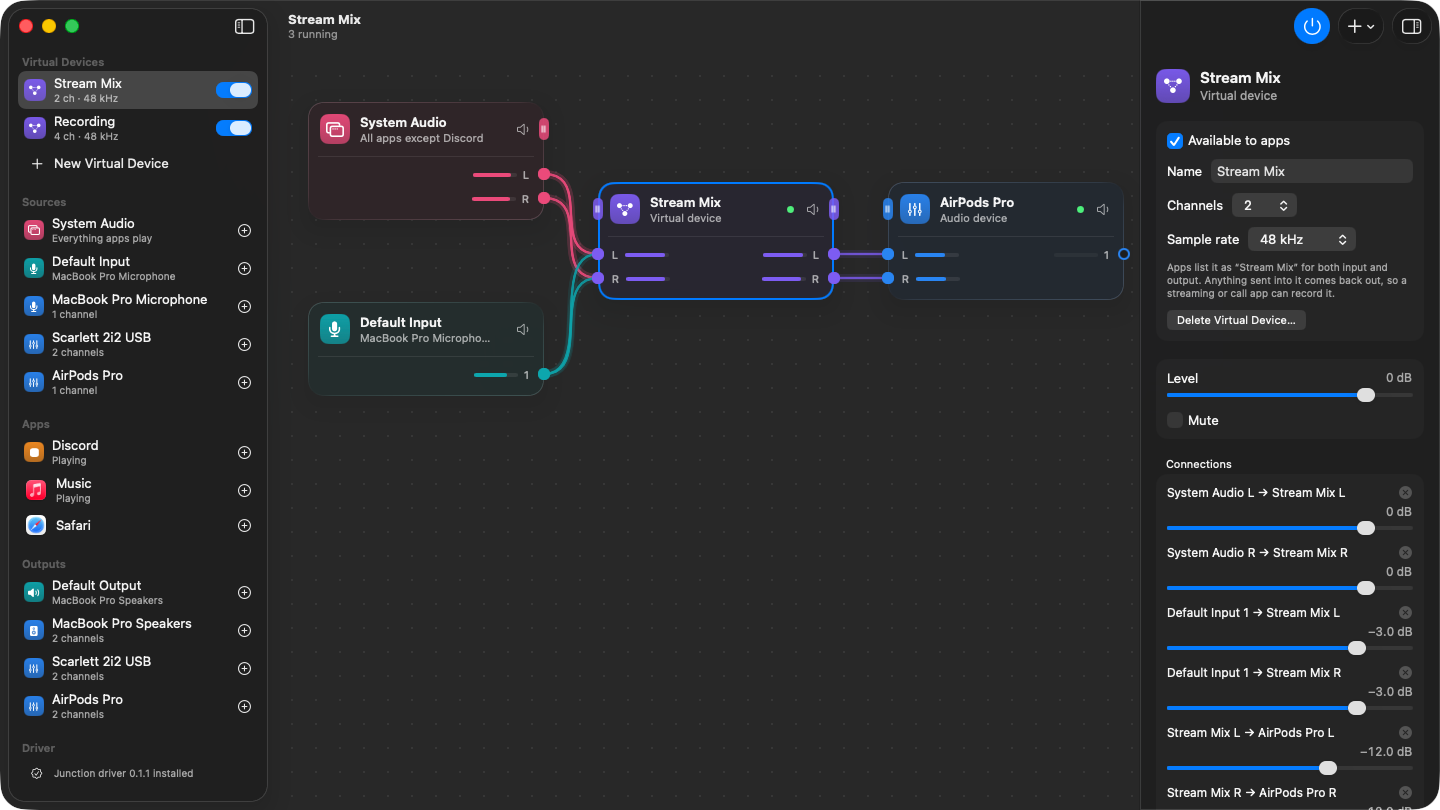
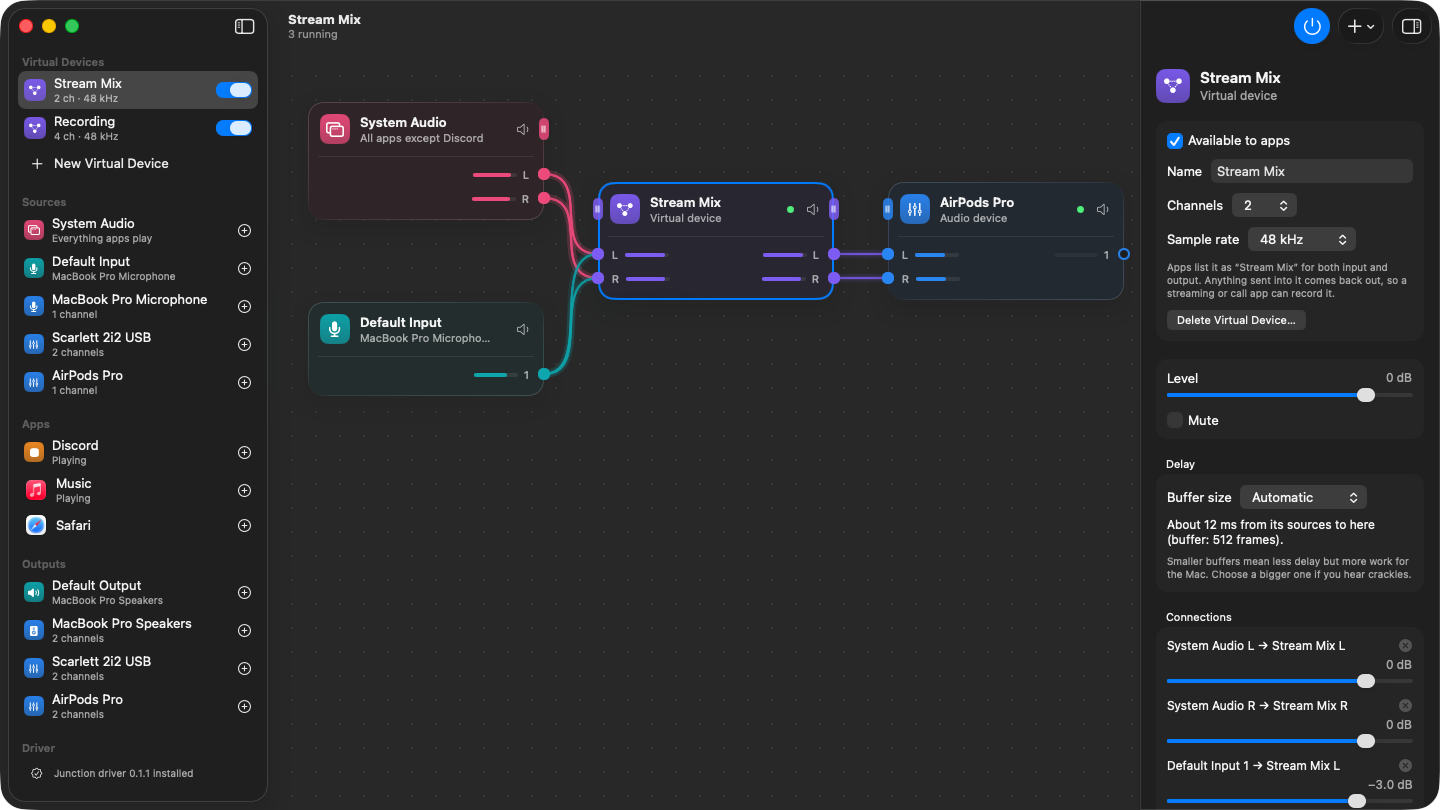
Show each cable's delay and let receiving nodes set a buffer size
- Nodes that receive cables (a virtual device, an output) get a buffer size:
  automatic or 64-1024 frames, applied to their routing's aggregate device
  within the range it allows. Graph schema 3; schema 2 files load with
  automatic sizes (test).
- The router measures roughly how long audio takes into each sink (latency,
  safety offsets, stream latencies and one buffer each way). The cable
  inspector shows it, and the node's new Delay section shows it with the
  buffer macOS gave.
- Guide, README and screenshots updated.

Changed region(s): [[0.8125, 0.5556, 1.0, 1.0], [0.9688, 0.5864, 1.0, 0.6173]]

diff --git a/Sources/JunctionCore/Router.swift b/Sources/JunctionCore/Router.swift
@@ -8,10 +8,16 @@ public struct SinkStatus: Equatable, Sendable {
     public enum State: Equatable, Sendable { case running, failed }
     public var state: State
     public var message: String?
+    /// While running: roughly how long audio takes from the sink's sources to the sink (seconds), and the buffer size
+    /// macOS gave its routing (frames).
+    public var latency: TimeInterval?
+    public var bufferFrames: Int?
 
-    public init(state: State, message: String? = nil) {
+    public init(state: State, message: String? = nil, latency: TimeInterval? = nil, bufferFrames: Int? = nil) {
         self.state = state
         self.message = message
+        self.latency = latency
+        self.bufferFrames = bufferFrames
     }
 }
 
@@ -175,7 +181,8 @@ public final class Router: @unchecked Sendable {
                 runners[sink.sinkNode] = runner
                 lock.unlock()
                 progress[sink.sinkNode] = nil
-                statuses[sink.sinkNode] = SinkStatus(state: .running, message: runner.layoutWarning)
+                statuses[sink.sinkNode] = SinkStatus(state: .running, message: runner.layoutWarning,
+                                                     latency: runner.latency, bufferFrames: runner.bufferFrames)
             } catch {
                 runner.stop()
                 retire(sink.sinkNode)
@@ -289,6 +296,9 @@ final class SinkRunner: @unchecked Sendable {
     /// Frames in one cross-fade at the aggregate's sample rate.
     private var fadeFrames = UInt32(Router.crossFadeSeconds * 48_000)
     let startedAt = Date()
+    /// Measured once the aggregate exists: see `measureTiming`.
+    private(set) var latency: TimeInterval?
+    private(set) var bufferFrames: Int?
 
     init?(plan: SinkPlan) {
         self.plan = plan
@@ -351,8 +361,10 @@ final class SinkRunner: @unchecked Sendable {
             layoutWarning = "Expected \(plan.inputChannels) input and \(plan.outputChannels) output channels, macOS made \(inputs) and \(outputs); some cables may carry the wrong channel."
         }
 
+        if let frames = plan.bufferFrames { Self.setBufferSize(aggregate, frames) }
         let rate = HAL.value(aggregate, kAudioDevicePropertyNominalSampleRate, default: Float64(48_000))
         if rate > 0 { fadeFrames = UInt32(max(1, (Router.crossFadeSeconds * rate).rounded())) }
+        measureTiming(rate: rate)
         if fadingIn { jk_renderer_set_fade_now(renderer, 0) }
 
         var proc: AudioDeviceIOProcID?
@@ -362,6 +374,32 @@ final class SinkRunner: @unchecked Sendable {
         status = AudioDeviceStart(aggregate, proc)
         guard status == noErr else { throw RouterError.start(status) }
         if fadingIn { jk_renderer_fade(renderer, 1, fadeFrames) }
+    }
+
+    /// Asks for an IO buffer size, kept within what the aggregate allows.
+    private static func setBufferSize(_ aggregate: AudioObjectID, _ frames: Int) {
+        let range = HAL.value(aggregate, kAudioDevicePropertyBufferFrameSizeRange,
+                              default: AudioValueRange(mMinimum: 0, mMaximum: 0))
+        var wanted = Float64(frames)
+        if range.mMaximum > 0 { wanted = min(max(wanted, range.mMinimum), range.mMaximum) }
+        var value = UInt32(wanted)
+        var address = HAL.address(kAudioDevicePropertyBufferFrameSize)
+        AudioObjectSetPropertyData(aggregate, &address, 0, nil, UInt32(MemoryLayout<UInt32>.size), &value)
+    }
+
+    /// Roughly how long audio takes from a source to the sink: the input side's latency and safety offset, the
+    /// output side's, and one buffer each way (taps and drift compensation can add a little).
+    private func measureTiming(rate: Float64) {
+        let buffer = HAL.value(aggregate, kAudioDevicePropertyBufferFrameSize, default: UInt32(0))
+        func side(_ scope: AudioObjectPropertyScope) -> UInt32 {
+            let streams = HAL.array(aggregate, kAudioDevicePropertyStreams, scope, of: AudioStreamID.self)
+            let streamLatency = streams.map { HAL.value($0, kAudioStreamPropertyLatency, default: UInt32(0)) }.max() ?? 0
+            return HAL.value(aggregate, kAudioDevicePropertyLatency, scope, default: UInt32(0))
+                + HAL.value(aggregate, kAudioDevicePropertySafetyOffset, scope, default: UInt32(0)) + streamLatency
+        }
+        guard buffer > 0, rate > 0 else { return }
+        bufferFrames = Int(buffer)
+        latency = Double(side(kAudioObjectPropertyScopeInput) + side(kAudioObjectPropertyScopeOutput) + 2 * buffer) / rate
     }
 
     /// Starts fading the sink out; `isSilent` turns true once the fade has been rendered.

diff --git a/Sources/Junction/Inspector.swift b/Sources/Junction/Inspector.swift
@@ -120,6 +120,10 @@ private struct NodeInspector: View {
             ExcludedApps(node: node, excluded: excluded)
         }
 
+        if ports.inputs > 0 {
+            SinkTiming(node: node)
+        }
+
         Connections(node: node)
 
         HStack {
@@ -176,6 +180,46 @@ private struct VirtualDeviceSettings: View {
         guard name != device.name else { return }
         model.updateVirtualDevice(device.id) { $0.name = name }
     }
+}
+
+/// The buffer size of a receiving node's routing, and the delay it ends up with.
+private struct SinkTiming: View {
+    @Environment(AppModel.self) private var model
+    let node: Node
+
+    var body: some View {
+        GroupBox("Delay") {
+            VStack(alignment: .leading, spacing: 8) {
+                Picker("Buffer size", selection: Binding(
+                    get: { node.bufferFrames ?? 0 },
+                    set: { value in model.updateNode(node.id) { $0.bufferFrames = value == 0 ? nil : value } })) {
+                    Text("Automatic").tag(0)
+                    ForEach(Node.bufferChoices, id: \.self) { Text("\($0) frames").tag($0) }
+                }
+                Text(summary).font(.callout)
+                Text("Smaller buffers mean less delay but more work for the Mac. Choose a bigger one if you hear crackles.")
+                    .font(.caption)
+                    .foregroundStyle(.secondary)
+                    .fixedSize(horizontal: false, vertical: true)
+            }
+            .padding(6)
+            .frame(maxWidth: .infinity, alignment: .leading)
+        }
+    }
+
+    private var summary: String {
+        guard let status = model.statuses[node.id], status.state == .running, let latency = status.latency else {
+            return "Shown while audio flows into it."
+        }
+        var text = "About \(formatDelay(latency)) from its sources to here"
+        if let frames = status.bufferFrames { text += " (buffer: \(frames) frames)" }
+        return text + "."
+    }
+}
+
+/// Milliseconds, rounded, at least 1.
+func formatDelay(_ seconds: TimeInterval) -> String {
+    "\(max(1, Int((seconds * 1000).rounded()))) ms"
 }
 
 private struct ExcludedApps: View {
@@ -289,6 +333,11 @@ private struct CableInspector: View {
             Label("Not carrying audio: one of its ends isn't available, or routing is off.", systemImage: "pause.circle")
                 .font(.callout)
                 .foregroundStyle(.orange)
+        } else if let status = model.statuses[cable.to.node], status.state == .running, let latency = status.latency {
+            Label("About \(formatDelay(latency)) delay", systemImage: "clock")
+                .font(.callout)
+                .foregroundStyle(.secondary)
+                .help("From the start of the cable to the end, including the buffers on both sides")
         }
         GroupBox {
             GainSlider(title: "Level", dB: cable.gainDB) { value in model.updateCable(cable.id) { $0.gainDB = value } }

diff --git a/Tests/JunctionCoreTests/PlannerTests.swift b/Tests/JunctionCoreTests/PlannerTests.swift
@@ -125,6 +125,37 @@ final class PlannerTests: XCTestCase {
         XCTAssertEqual(key(before, device.name), key(after, device.name), "a sink without the mic keeps running")
     }
 
+    func testBufferSizeIsSavedAndRebuildsTheSink() throws {
+        var graph = Graph()
+        let device = Templates.streamWithoutChat(&graph, excluding: [])
+        var inventory = Demo.inventory
+        inventory.devices.append(DeviceInfo(uid: device.uid, name: device.name, inputChannels: 2, outputChannels: 2,
+                                            isJunction: true))
+        let sinkNode = try XCTUnwrap(graph.deviceNode(device.id))
+        let before = try XCTUnwrap(Planner.plan(graph, inventory: inventory).sinks.first)
+        XCTAssertNil(before.bufferFrames)
+        let index = try XCTUnwrap(graph.nodes.firstIndex { $0.id == sinkNode.id })
+        graph.nodes[index].bufferFrames = 128
+        let after = try XCTUnwrap(Planner.plan(graph, inventory: inventory).sinks.first)
+        XCTAssertEqual(after.bufferFrames, 128)
+        XCTAssertNotEqual(before.structureKey, after.structureKey)
+
+        // Schema 2 files have no buffer sizes: they load as macOS's default and are saved as schema 3.
+        graph.nodes[index].bufferFrames = nil
+        graph.schema = 2
+        let json = try XCTUnwrap(String(data: JSONEncoder().encode(graph), encoding: .utf8))
+        XCTAssertFalse(json.contains("bufferFrames"))
+        let folder = FileManager.default.temporaryDirectory.appendingPathComponent("junction-schema3-\(UUID().uuidString)")
+        defer { try? FileManager.default.removeItem(at: folder) }
+        try FileManager.default.createDirectory(at: folder, withIntermediateDirectories: true)
+        let store = Store(folder: folder)
+        try Data(json.utf8).write(to: store.graphURL)
+        let loaded = try XCTUnwrap(store.load())
+        XCTAssertEqual(loaded.schema, 3)
+        XCTAssertTrue(loaded.nodes.allSatisfy { $0.bufferFrames == nil })
+        XCTAssertEqual(loaded.cables, graph.cables)
+    }
+
     func testRetriesWaitLongerEachTime() {
         XCTAssertEqual((1...8).map(Router.retryDelay(attempt:)), [2, 4, 8, 16, 32, 60, 60, 60])
         XCTAssertEqual(Router.retryDelay(attempt: 0), 2)

diff --git a/Sources/JunctionCore/Model.swift b/Sources/JunctionCore/Model.swift
@@ -98,9 +98,13 @@ public struct Node: Codable, Identifiable, Hashable, Sendable {
     public var mutesOriginal: Bool
     /// The virtual device whose canvas this node is on (nil only in graphs saved before canvases, see `upgrade()`).
     public var canvas: UUID?
+    /// For nodes that receive cables: the IO buffer size of their routing, in frames (nil: macOS's default).
+    public var bufferFrames: Int?
+
+    public static let bufferChoices = [64, 128, 256, 512, 1024]
 
     public init(id: UUID = UUID(), kind: NodeKind, x: Double = 0, y: Double = 0, gainDB: Double = 0, isMuted: Bool = false,
-                mutesOriginal: Bool = false, canvas: UUID? = nil) {
+                mutesOriginal: Bool = false, canvas: UUID? = nil, bufferFrames: Int? = nil) {
         self.id = id
         self.kind = kind
         self.x = x
@@ -109,6 +113,7 @@ public struct Node: Codable, Identifiable, Hashable, Sendable {
         self.isMuted = isMuted
         self.mutesOriginal = mutesOriginal
         self.canvas = canvas
+        self.bufferFrames = bufferFrames
     }
 }
 
@@ -147,8 +152,9 @@ public struct Cable: Codable, Identifiable, Hashable, Sendable {
 }
 
 public struct Graph: Codable, Equatable, Sendable {
-    /// 1: one shared canvas. 2: a canvas per virtual device.
-    public static let currentSchema = 2
+    /// 1: one shared canvas. 2: a canvas per virtual device. 3: nodes can set a buffer size (`Node.bufferFrames`;
+    /// absent in older files, which means macOS's default).
+    public static let currentSchema = 3
     public var schema = Graph.currentSchema
     public var virtualDevices: [VirtualDevice] = []
     public var nodes: [Node] = []

diff --git a/Sources/JunctionCore/Planner.swift b/Sources/JunctionCore/Planner.swift
@@ -28,6 +28,8 @@ public struct SinkPlan: Equatable, Sendable, Identifiable {
     public var taps: [TapPlan]
     public var routes: [Route]
     public var masterGain: Float
+    /// IO buffer size to ask for, in frames (nil: macOS's default).
+    public var bufferFrames: Int? = nil
     /// Input channels the aggregate should have: all sub-devices' inputs, then two per tap.
     public var inputChannels: Int
     /// Output channels the aggregate should have: the sink's first, then other sub-devices' outputs.
@@ -41,7 +43,7 @@ public struct SinkPlan: Equatable, Sendable, Identifiable {
             .joined(separator: ",")
         let tapKeys = taps.map { "\($0.node.uuidString):\($0.mode):\($0.mutesOriginal)" }.joined(separator: ",")
         let routeKeys = routes.map { "\($0.input)>\($0.output)" }.joined(separator: ",")
-        return "\(sinkUID)|\(devices)|\(tapKeys)|\(routeKeys)"
+        return "\(sinkUID)|\(devices)|\(tapKeys)|\(routeKeys)|\(bufferFrames ?? 0)"
     }
 }
 
@@ -180,7 +182,7 @@ public enum Planner {
             plan.sinks.append(SinkPlan(
                 sinkNode: sink.id, name: info.title(sink), sinkUID: sinkUID, sinkOutputChannels: sinkDevice.outputChannels,
                 subDevices: subDevices, taps: taps, routes: routes,
-                masterGain: sink.isMuted ? 0 : Gain.linear(sink.gainDB),
+                masterGain: sink.isMuted ? 0 : Gain.linear(sink.gainDB), bufferFrames: sink.bufferFrames,
                 inputChannels: tapBase + taps.count * 2,
                 outputChannels: subDevices.reduce(0) { $0 + $1.outputChannels }))
         }

diff --git a/Sources/Junction/Snapshot.swift b/Sources/Junction/Snapshot.swift
@@ -51,7 +51,7 @@ enum Demo {
             ],
             defaultOutputUID: "demo.speakers", defaultInputUID: "demo.mic",
             driver: .installed(version: DriverClient.bundledVersion ?? "0.1.1"))
-        let running = SinkStatus(state: .running)
+        let running = SinkStatus(state: .running, latency: 0.0117, bufferFrames: 512)
         var meters: [PortKey: Float] = [:]
         func meter(_ node: Node, _ output: Bool, _ values: [Float]) {
             for (channel, value) in values.enumerated() { meters[PortKey(node: node.id, isOutput: output, channel: channel)] = value }

diff --git a/docs/GUIDE.md b/docs/GUIDE.md
@@ -164,7 +164,14 @@ What the canvas shows:
 - **Dashed** cables carry nothing right now: routing is off, the device is turned off, a device is unplugged, or
   the cable would cause a loop.
 - A **green dot** on a node means it's running. A **yellow triangle** means there's a problem: hover over it, or select
-  the node to read it in the inspector.
+  the node to read it in the inspector. If something fails to start, Junction tries again by itself, and the node
+  says why and when.
+
+### Delay and buffer size
+
+A selected cable shows roughly how long sound takes to travel through it. Select the virtual device or an output to
+change its **Buffer size** under **Delay**. Smaller buffers mean less delay but more work for the Mac. If you hear
+crackles, choose a bigger buffer. **Automatic** leaves the choice to macOS.
 
 ## 8. Leave apps out
 
@@ -247,7 +254,7 @@ there is one, is offered as above.
 | OBS hears nothing from the device | Is routing on (power button)? Is the device switched on in the sidebar? Are its cables solid, not dashed? Check both permissions (section 11). |
 | My voice chat is still on stream | Select System Audio and check that the chat app is in its **Leave out** list. Safari and other apps built on Safari share one process, so they can only be left out together. |
 | I hear things twice | An output on the device's canvas plays the device on top of what apps already play there. Remove the output, or use headphones that apps don't play on. |
-| Crackles or odd pitch | Select the nodes with a yellow triangle: devices running at different sample rates. Set them to the same rate in Audio MIDI Setup. |
+| Crackles or odd pitch | Select the nodes with a yellow triangle: devices running at different sample rates. Set them to the same rate in Audio MIDI Setup. Crackles can also mean the buffer is too small: select the device or output and choose a bigger **Buffer size**. |
 | The volume keys don't change a virtual device | Virtual devices have no volume control yet; use the level faders in Junction. |
 | A device or interface shows "Not connected" | It's unplugged or off. Its cables come back to life when it returns. |
 | A virtual device switched sample rate on its own | Other apps (Audio MIDI Setup, a DAW) can set it, and macOS restores the last rate it remembers. Junction follows such changes; set the rate you want in the inspector. |

diff --git a/README.md b/README.md
@@ -21,7 +21,8 @@ without your voice chat, step by step.
   Junction also refuses (or, if Sound settings change later, mutes) a device sent to Default Output while Sound
   settings play through that same device, and Default Input into the device it stands for.
 - **Inspector**: level and mute per node and per cable (Option- or Command-click a fader to put it back to 0 dB), the
-  virtual device's settings, the apps a System Audio node leaves out, and any problem a node has.
+  virtual device's settings, the apps a System Audio node leaves out, and any problem a node has. A cable shows its
+  approximate delay; a receiving node (virtual device or output) has a buffer size (64–1024 frames, or automatic).
 - **Routing** (toolbar power button, menu bar, ⇧⌘R) starts and stops everything. Junction keeps routing from the menu
   bar when the window is closed.
 
@@ -109,9 +110,10 @@ Three parts:
    they touch. A rebuilt sink is built next to the running one, then the two cross-fade over 25 ms, so edits don't
    leave a gap or click. When apps start or quit, taps are updated in place.
 
-The graph is saved to `~/Library/Application Support/Junction/graph.json` (schema 2: nodes belong to a device's
-canvas). A schema 1 file from the shared-canvas versions is converted on load: each node moves to the canvas of the
-device it was wired to (unwired ones to the first device), and cables between devices are dropped.
+The graph is saved to `~/Library/Application Support/Junction/graph.json` (schema 3: nodes belong to a device's
+canvas, and receiving nodes can set a buffer size). A schema 1 file from the shared-canvas versions is converted on
+load: each node moves to the canvas of the device it was wired to (unwired ones to the first device), and cables
+between devices are dropped. Schema 2 files load unchanged, with automatic buffer sizes.
 
 ## Development
 
